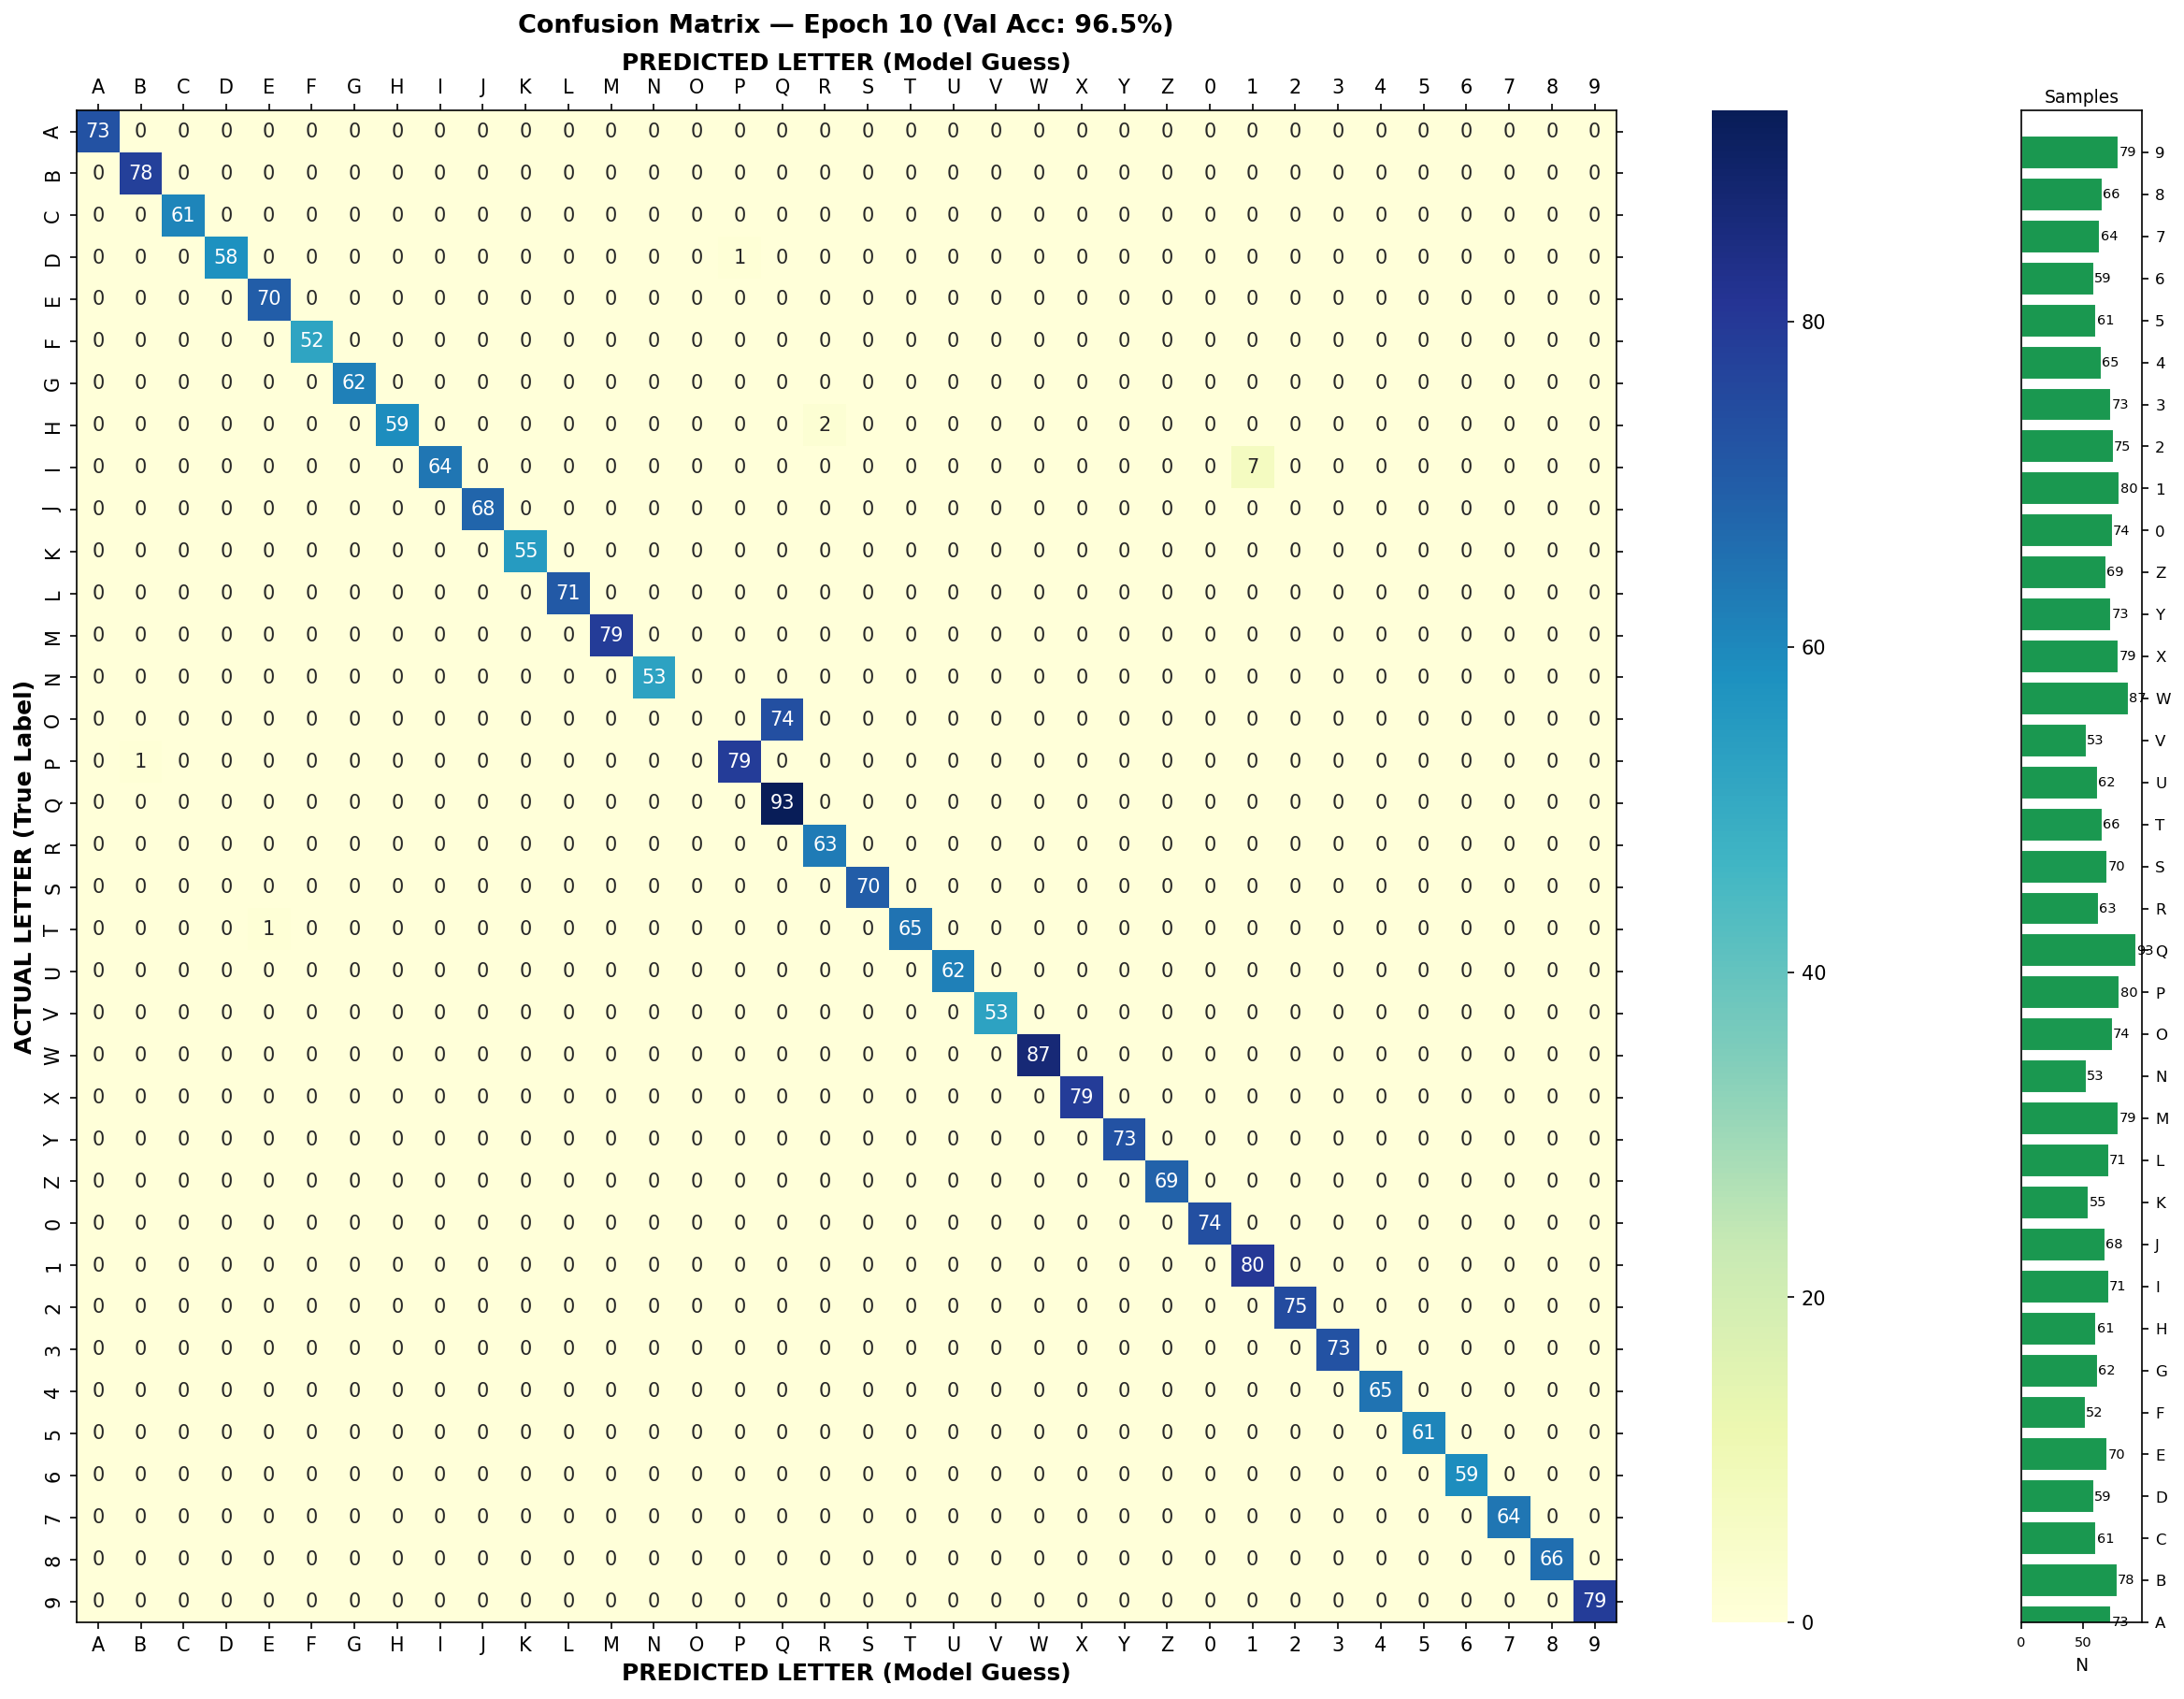
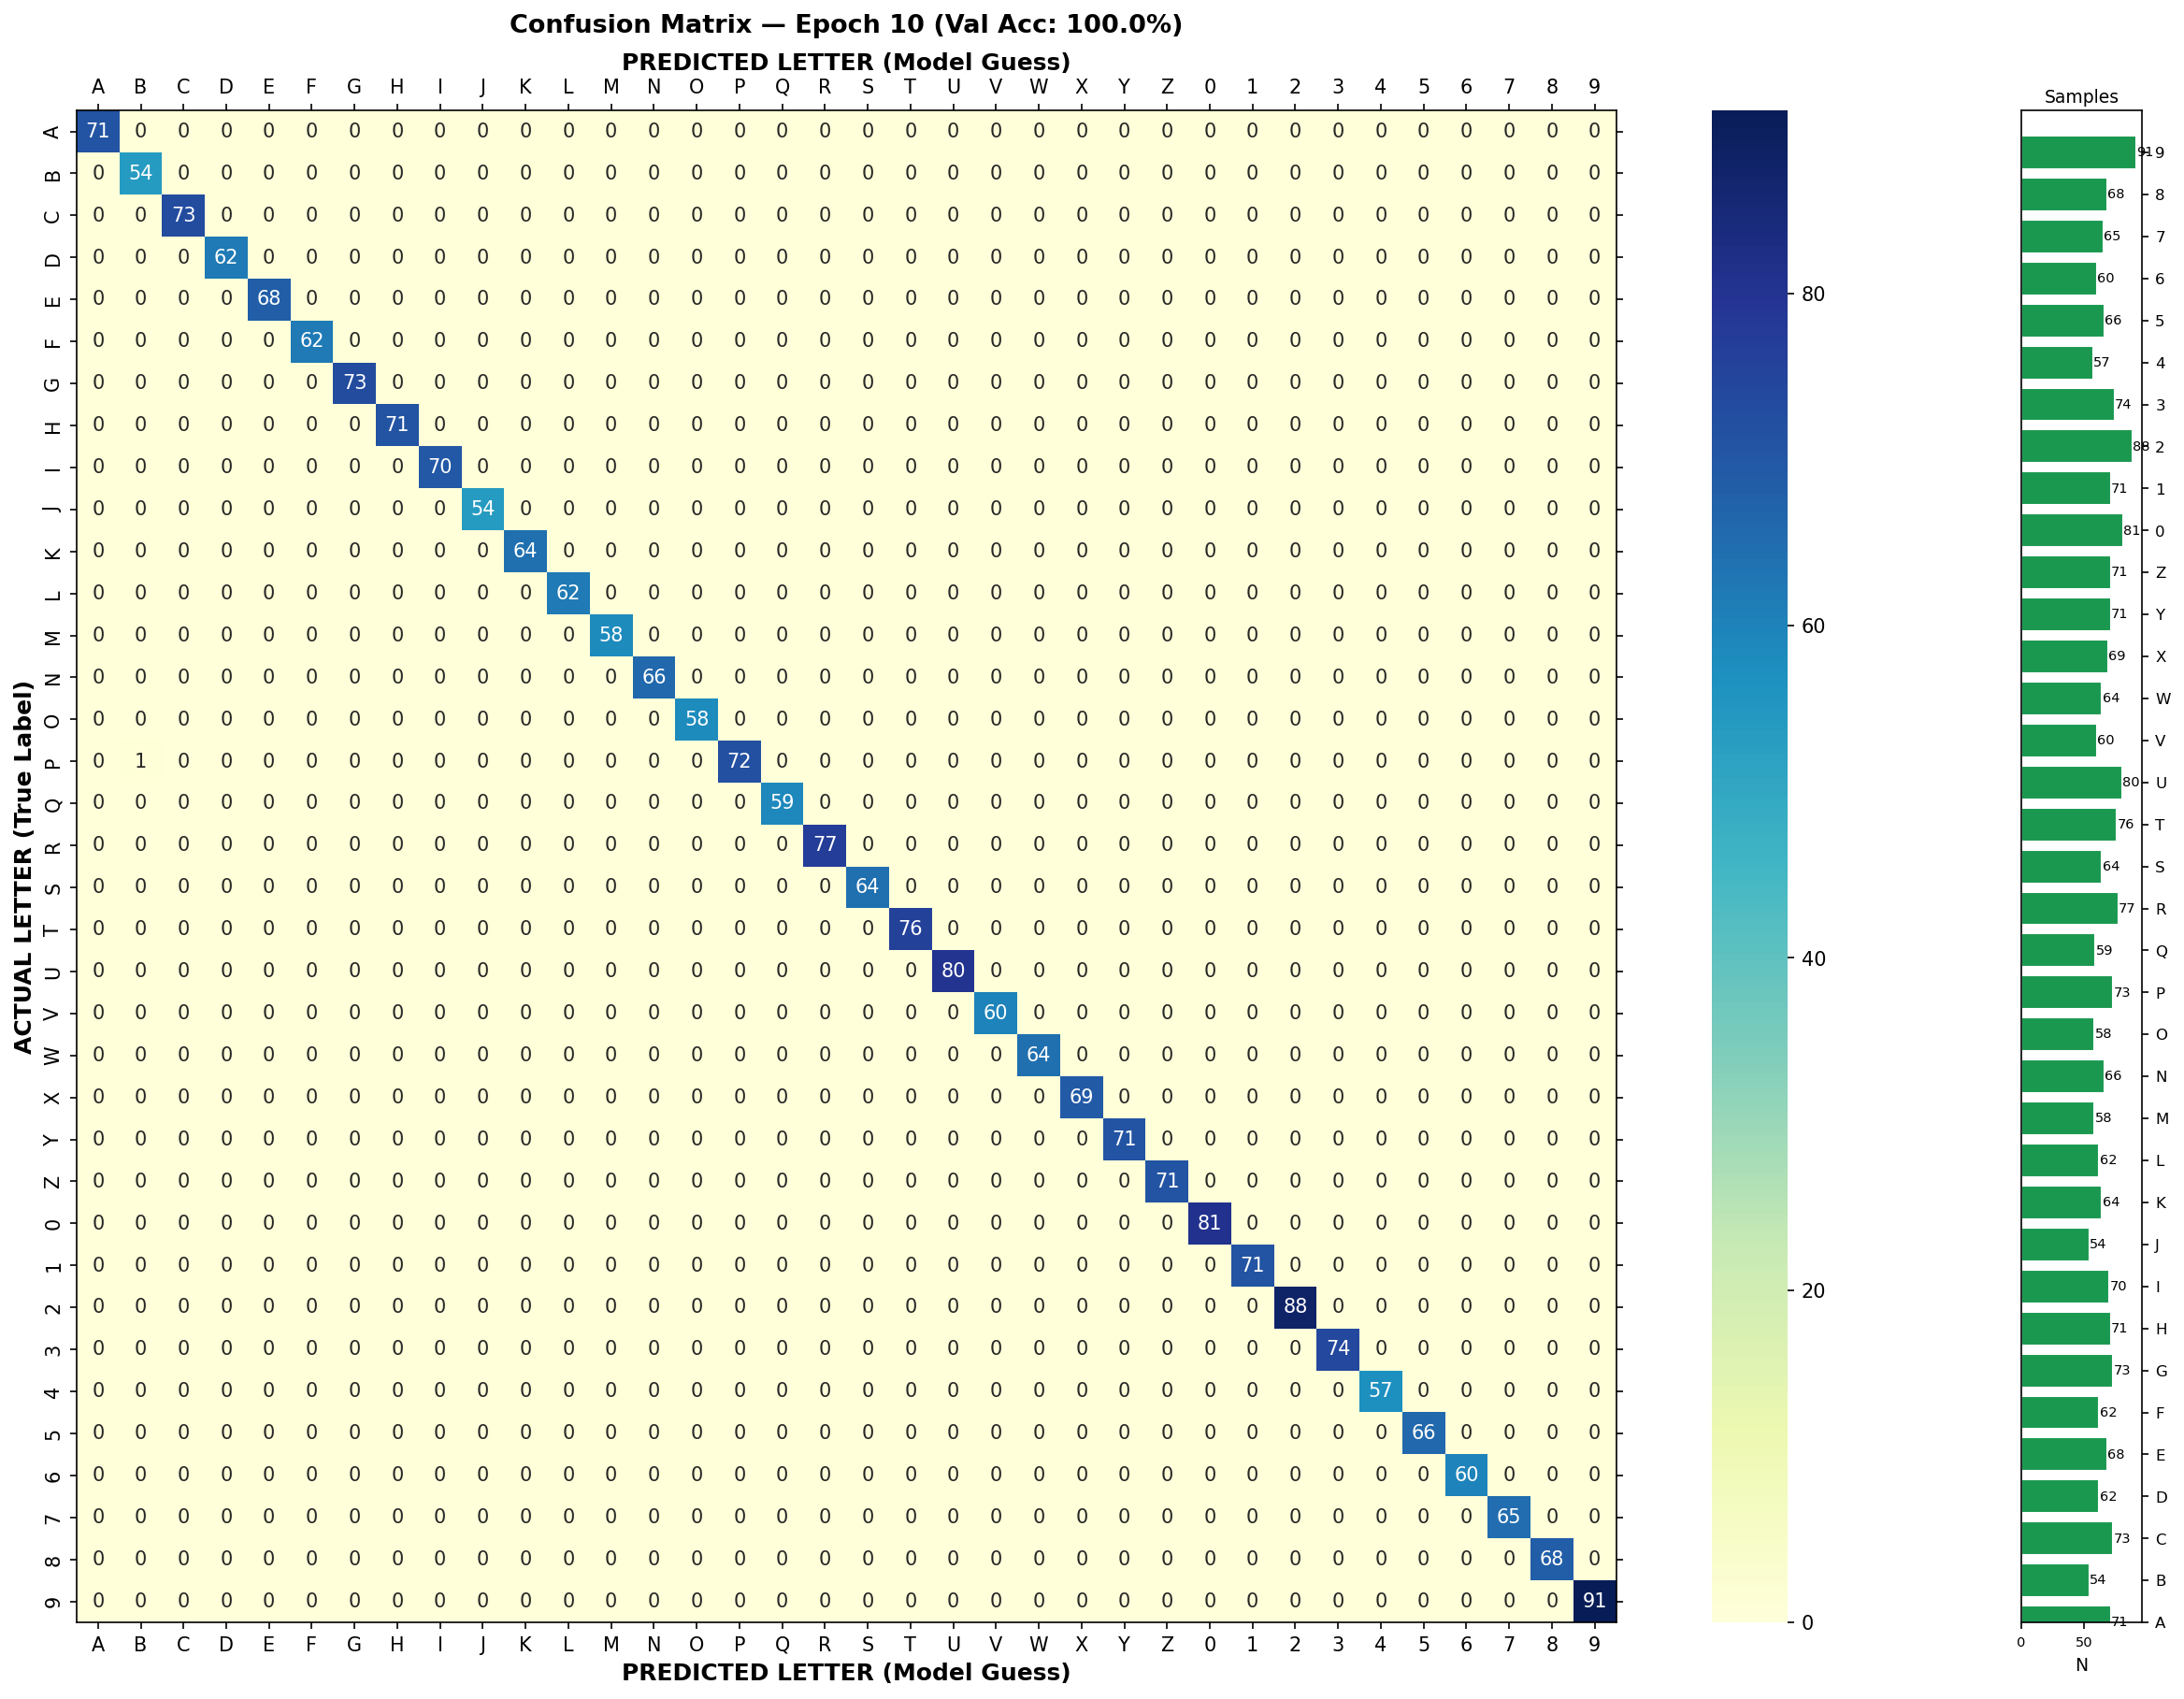
logging messages for demo

diff --git a/perception/src/realsense_camera_cnn.py b/perception/src/realsense_camera_cnn.py
@@ -10,15 +10,59 @@
 #   SPACEBAR  - Toggle "at position" (enables letter scanning)
 #   Q         - Quit
 #
-# ROS2 TOPICS PUBLISHED:
-#   /perception/human_detected    std_msgs/Bool    — streams every frame
-#   /perception/status            std_msgs/String  — "SCANNING" or "IDLE", every frame
-#   /perception/detections        std_msgs/String  — JSON block list, published each scan
+
+# ── COORDINATE FLOW ──────────────────────────────────────────────────────────
 #
-# ROS2 TOPICS SUBSCRIBED:
-#   /mission/state                std_msgs/String  — "SCANNING" enables CNN scan
-#                                                    "IDLE" disables scan
-#                                                    (replaces spacebar for robot operation)
+#  1. RealSense depth + pixel → camera frame (metres)
+#       pixel_to_camera_frame() converts block centre pixel + depth reading
+#       into (x_m, y_m, z_m) relative to the camera lens.
+#       Camera axes: x=right, y=down, z=forward into scene.
+#
+#  2. Camera frame → world frame (via TF2)
+#       At startup this node broadcasts a static TF:
+#         gripper_tcp → camera_color_optical_frame
+#       using the CAM_MOUNT_* calibration values at the top of this file.
+#       TF2 then chains:
+#         camera_color_optical_frame → gripper_tcp → ... → base_link → world
+#       using the live UR3e joint states from robot_state_publisher.
+#       _camera_to_world() performs this lookup and applies the transform.
+#
+# ── TOPICS SUBSCRIBED ────────────────────────────────────────────────────────
+#
+#   /camera/camera/color/image_raw          sensor_msgs/Image   — colour frames
+#   /camera/camera/aligned_depth_to_color/  sensor_msgs/Image   — aligned depth
+#     image_raw
+#   /mission/state                          std_msgs/String
+#       "SCANNING" → enables CNN scan (same as SPACEBAR on)
+#       "IDLE"     → disables scan, publishes gameboard_state snapshot
+#
+# ── TOPICS PUBLISHED ─────────────────────────────────────────────────────────
+#
+#   /perception/human_detected    std_msgs/Bool
+#       True/False every ~5 Hz. Used by Elijah's safety monitor.
+#
+#   /perception/status            std_msgs/String
+#       "SCANNING" or "IDLE" every ~5 Hz. Used by Elijah's behaviour tree.
+#
+#   /perception/detections        std_msgs/String  (JSON)
+#       Published every frame while scanning. CAMERA FRAME coordinates.
+#       Format: {"blocks": [{"letter":"A","conf":94.2,
+#                            "x_m":0.04,"y_m":-0.02,"z_m":0.38,
+#                            "theta_deg":12.5}]}
+#       Subscribers: Kermit (word solver), Elijah (behaviour tree)
+#
+#   /perception/gameboard_state   hl_control/GameboardState  (LATCHED)
+#       Published ONCE per completed scan (on IDLE mission state or spacebar off).
+#       WORLD FRAME coordinates — camera→world TF applied.
+#       Each detected block becomes a LetterObject:
+#         letter    : "A"
+#         object_id : "A_object_1"  (unique per letter, e.g. two A's → _1 and _2)
+#         pose      : PoseStamped, frame_id="world", position in robot world frame
+#       Subscriber: Connor's hl_control_node — triggers pick-and-place planning
+#                   once this AND /hl_control/word_request have both arrived.
+
+
+
 
 # ── Mode switch ───────────────────────────────────────────
 USE_ROS2 = True   # False = direct pyrealsense2 SDK, True = ROS2 topics
@@ -699,7 +743,30 @@ def run_ros2():
                     det_msg      = String()
                     det_msg.data = self.perception.get_detections_json()
                     self.pub_detections.publish(det_msg)
-                    self.get_logger().info(f'[Detections] {det_msg.data}')
+
+                    # Log at ~1 Hz (every 30 frames) to avoid flooding the terminal.
+                    # Empty frames are silent — only logs when blocks are detected.
+                    if self.frame_count % 30 == 0:
+                        detections = self.perception.last_detections
+                        if detections:
+                            lines = []
+                            for (x, y, w, h, letter, conf, x_m, y_m, z_m, theta) in detections:
+                                if not letter:
+                                    continue
+                                cam_str = f'cam=({x_m:.3f}, {y_m:.3f}, {z_m:.3f})' \
+                                          if x_m is not None else 'cam=(no depth)'
+                                if x_m is not None:
+                                    world = self._camera_to_world(x_m, y_m, z_m)
+                                    world_str = f'world=({world[0]:.3f}, {world[1]:.3f}, {world[2]:.3f})' \
+                                                if world is not None else 'world=(no TF)'
+                                else:
+                                    world_str = 'world=(no depth)'
+                                lines.append(
+                                    f'  {letter} {conf:.0f}%  {cam_str}  {world_str}  theta={theta:.1f}deg'
+                                )
+                            if lines:
+                                self.get_logger().info(
+                                    '[Detections]\n' + '\n'.join(lines))
 
                 # ── Display ────────────────────────────────────────────
                 display = cv2.resize(display, (960, 540))